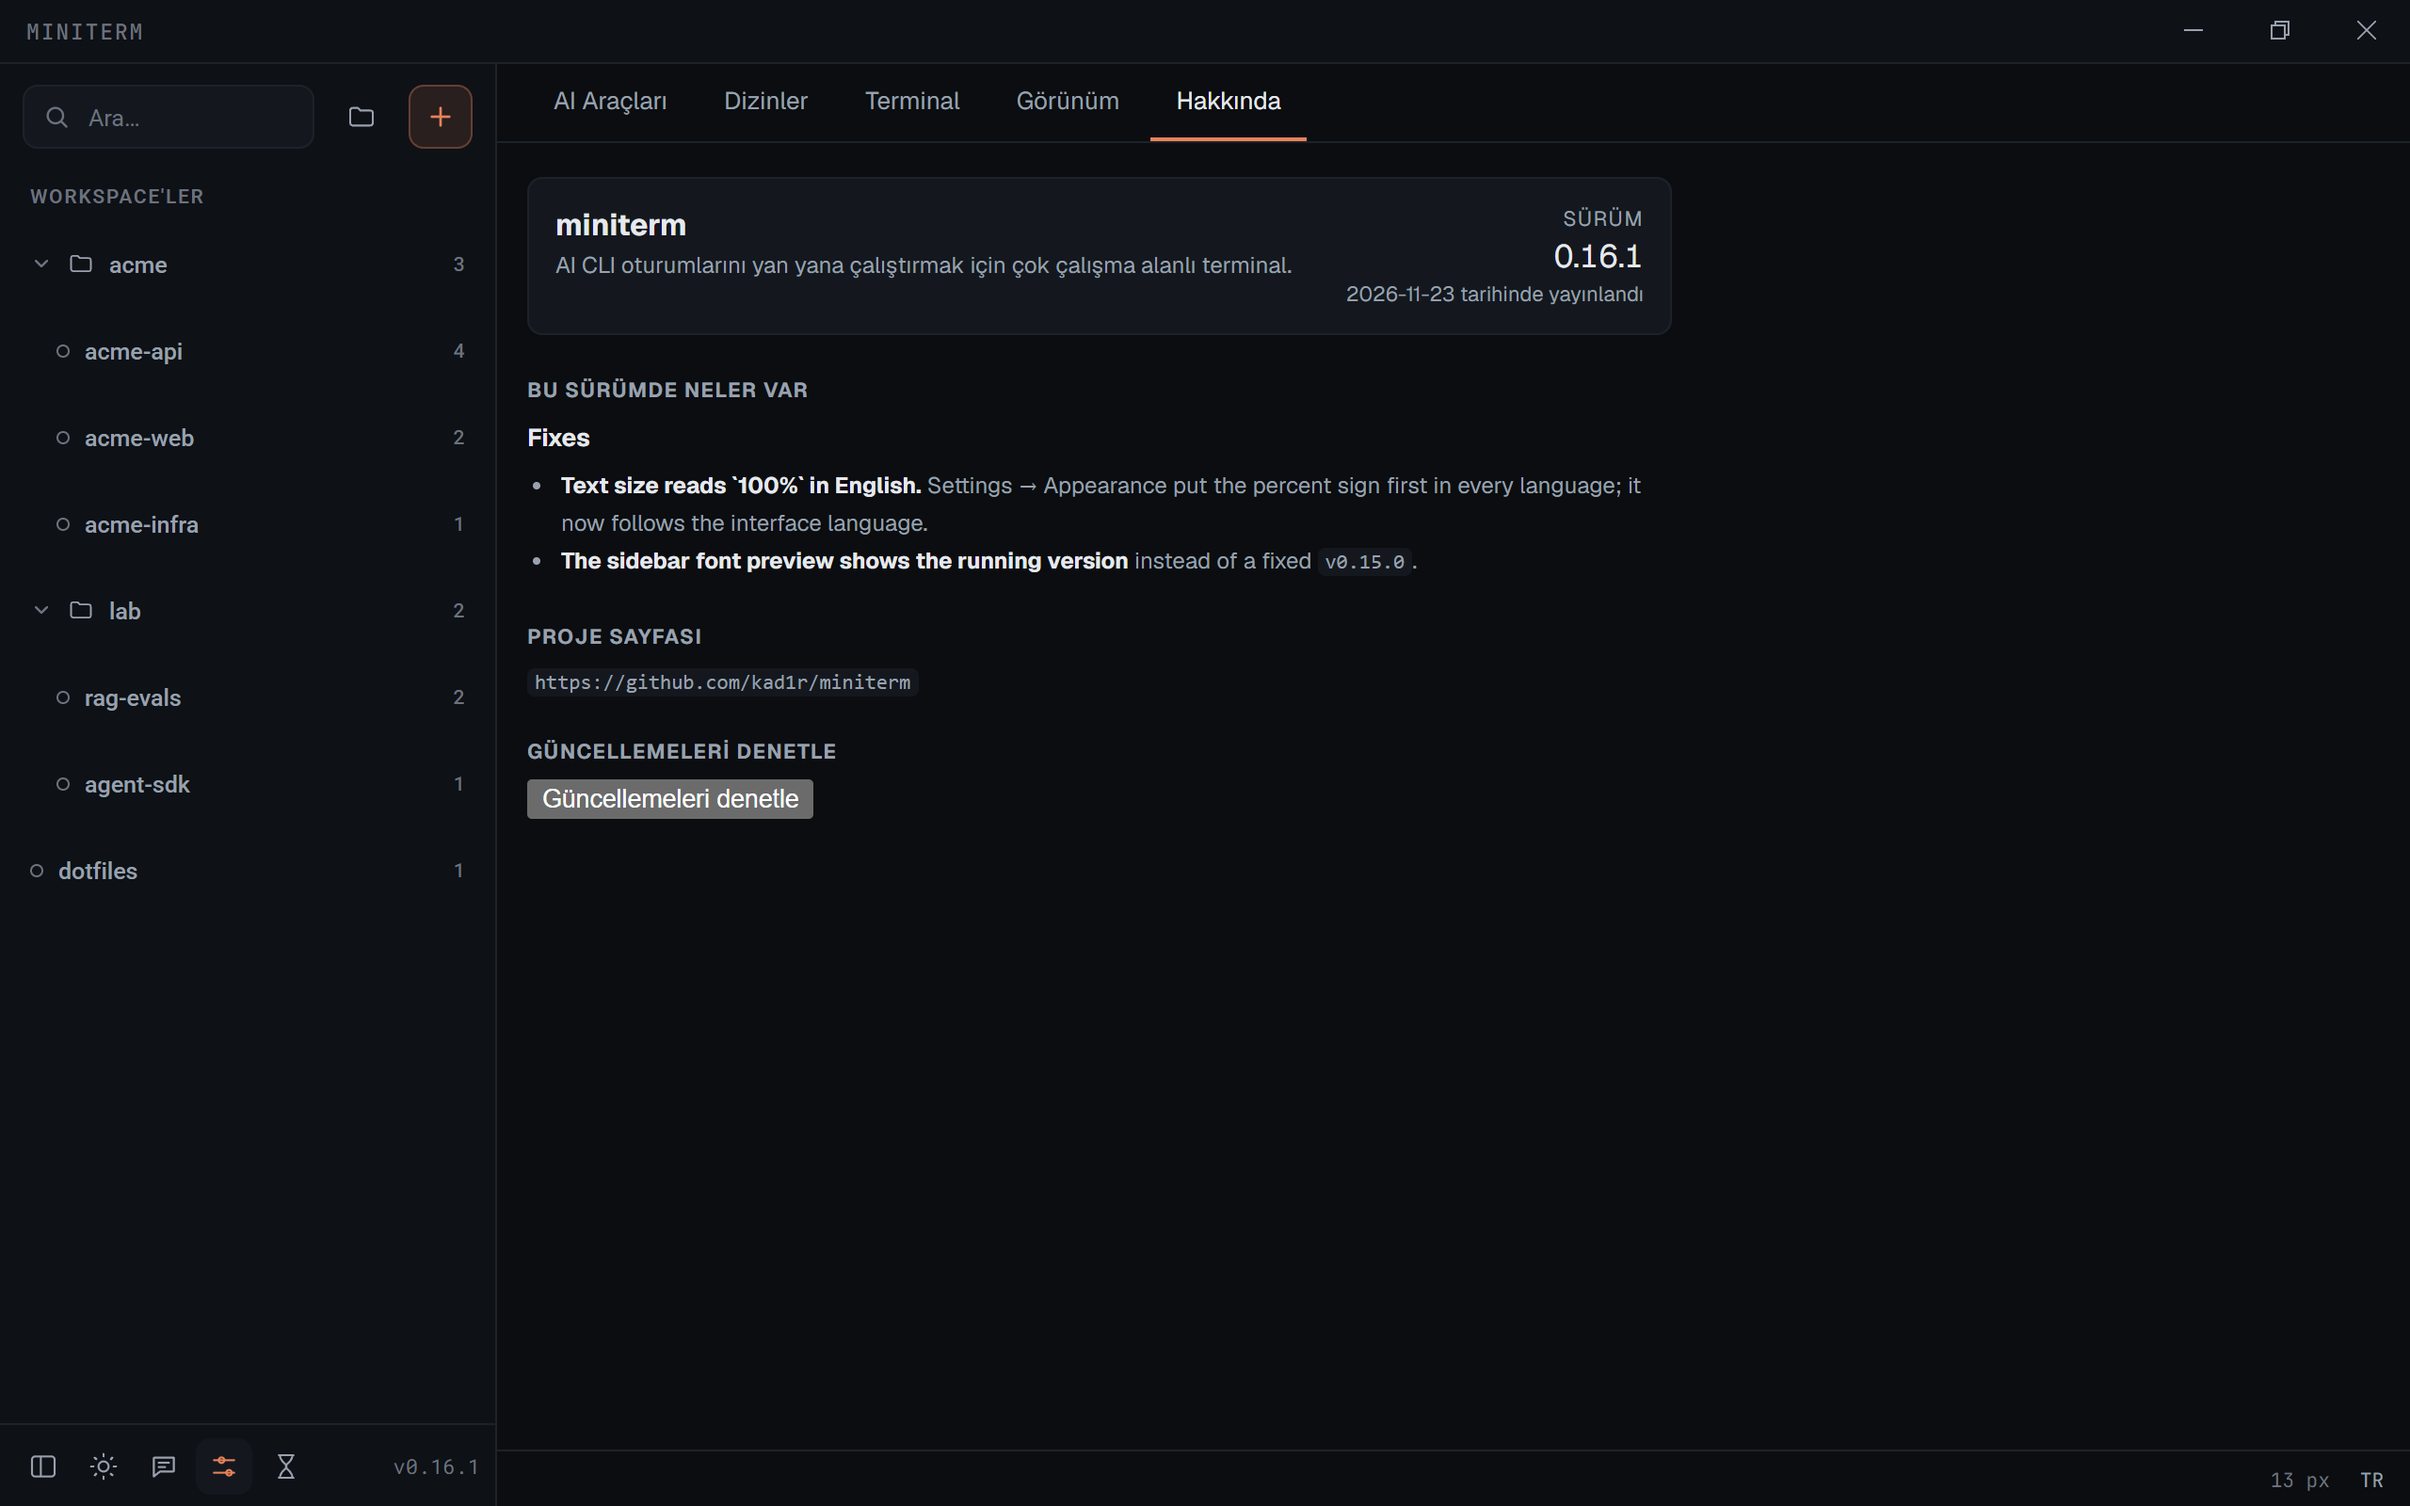
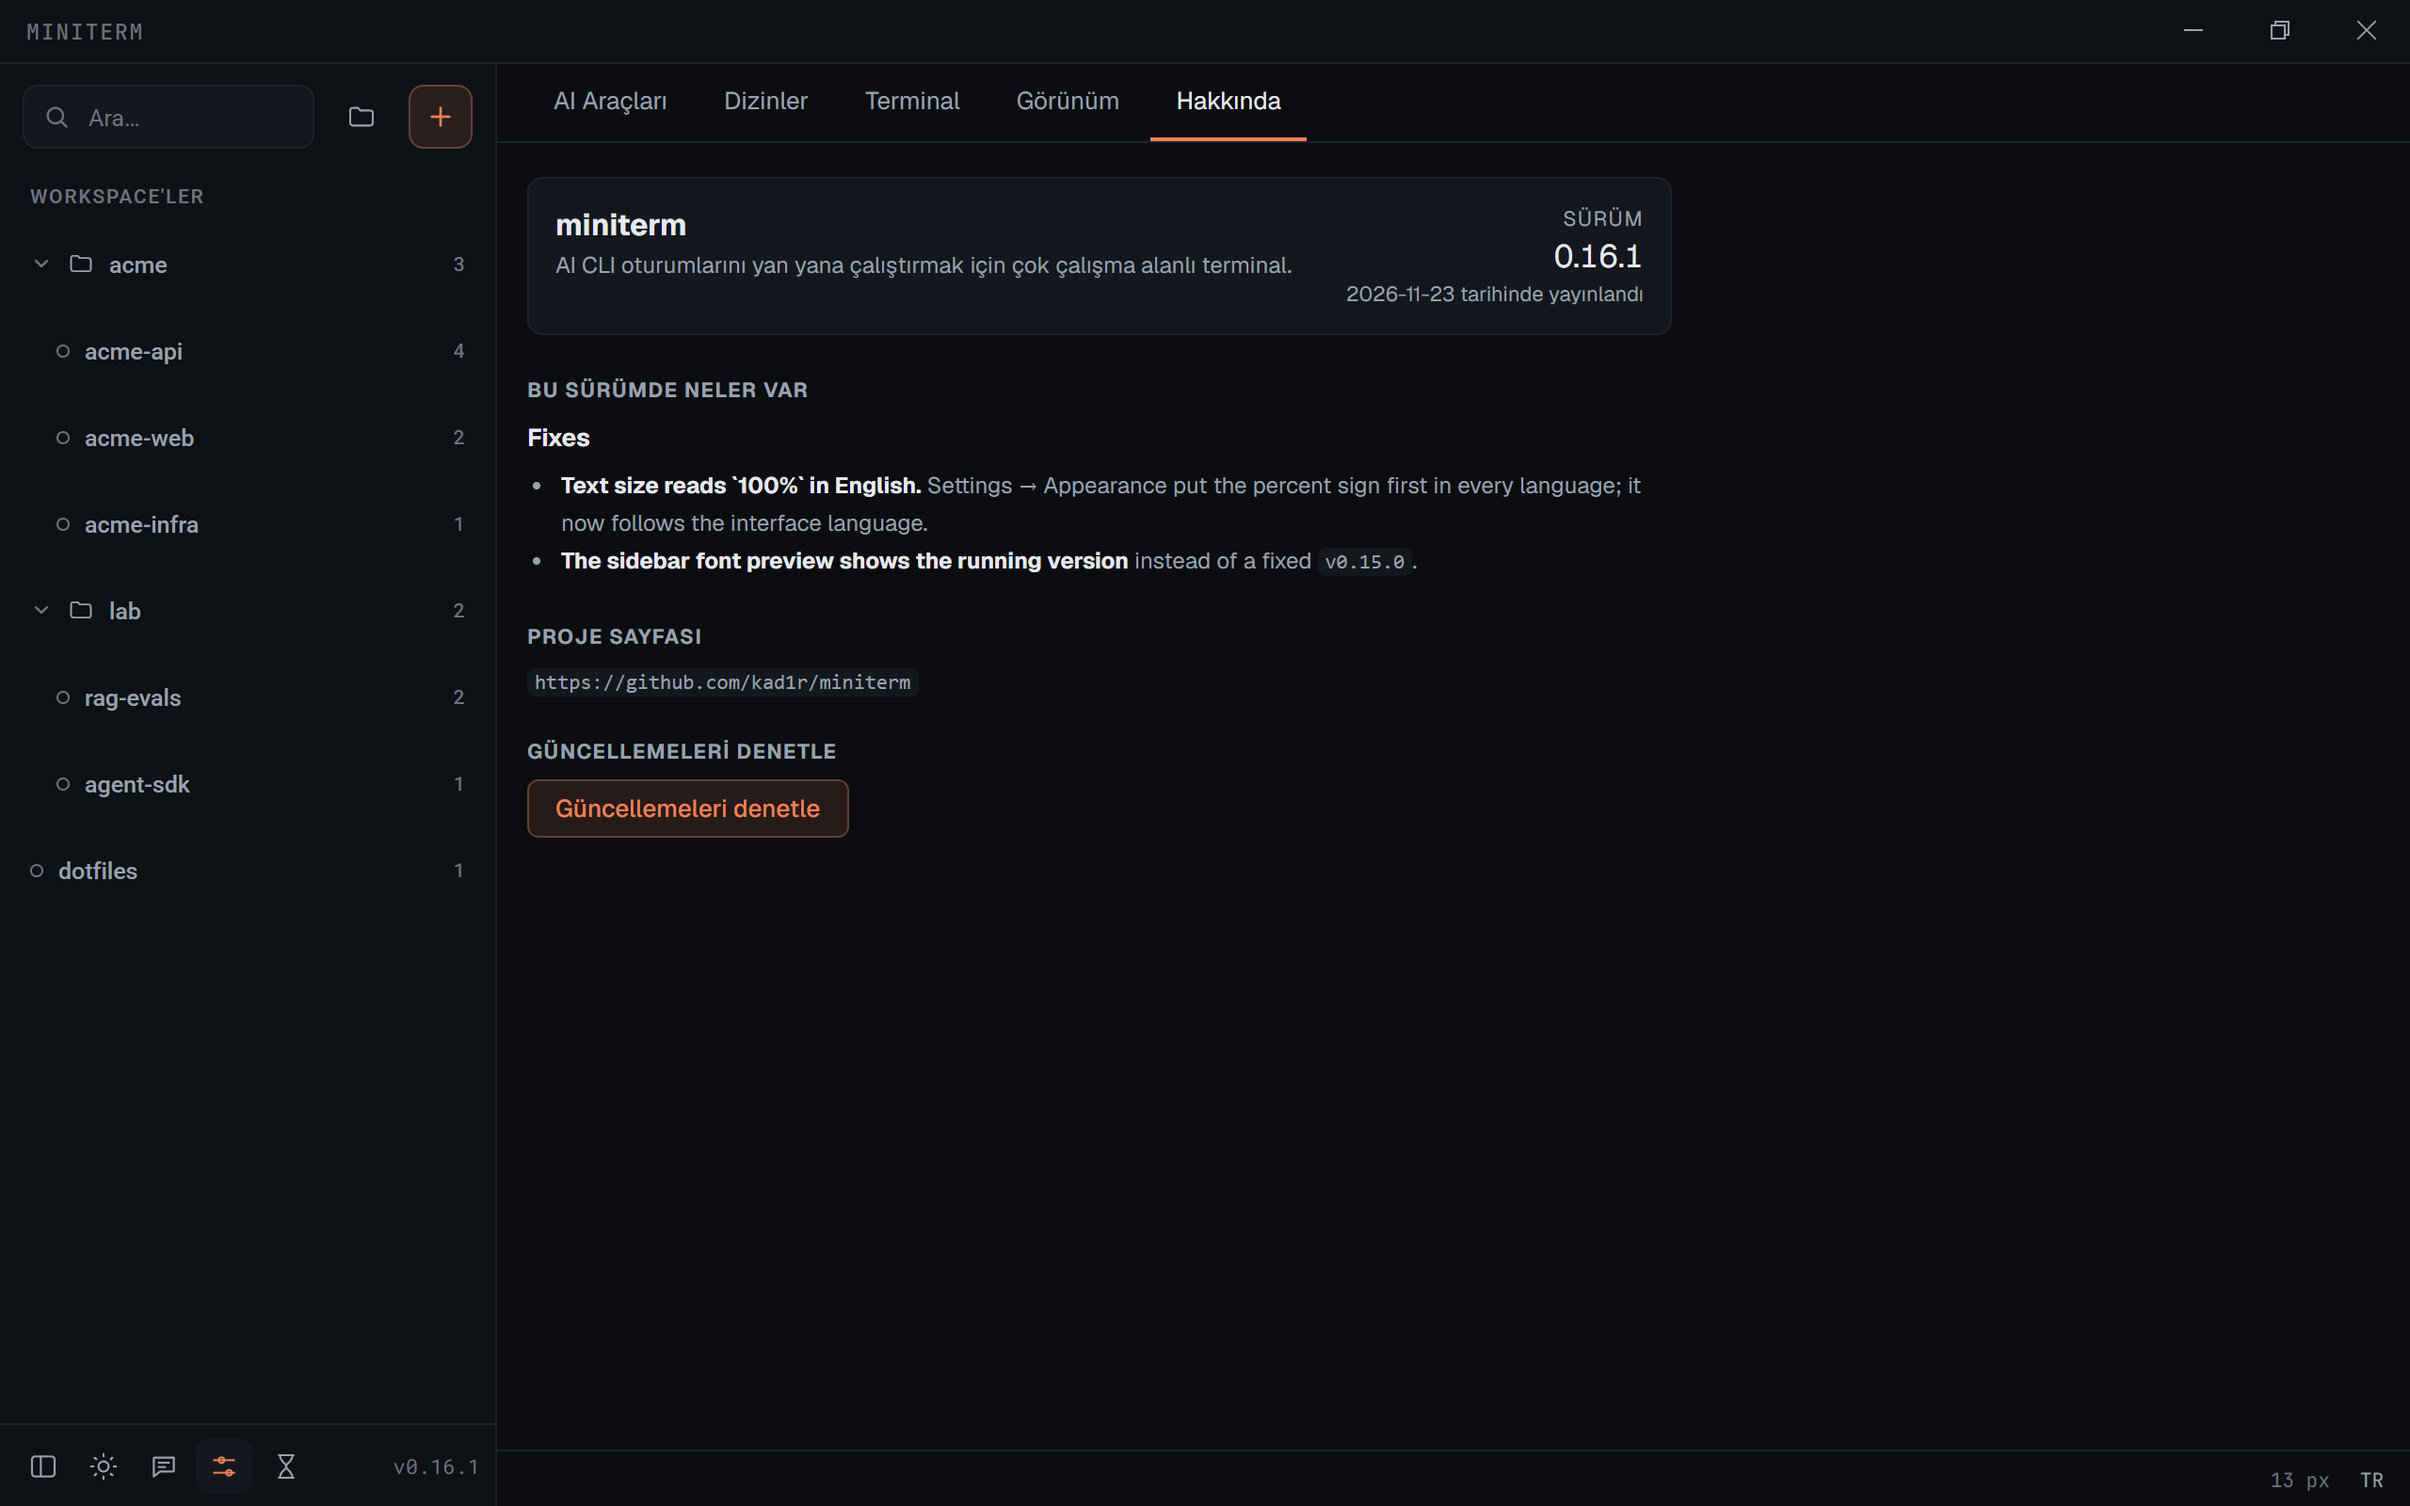
fix(settings): style the About tab update buttons with the accent tint
The check-for-updates and download buttons had no class and the About
tab carried no button rule, so they rendered as unstyled native buttons.

Changed region(s): [[0.2188, 0.5, 0.375, 0.5625]]

diff --git a/src/lib/SettingsAbout.svelte b/src/lib/SettingsAbout.svelte
@@ -71,6 +71,7 @@
 <h3>{t("update.checkButton")}</h3>
 <div class="update-check">
   <button
+    class="accent"
     onclick={checkForUpdates}
     disabled={update.status === "checking" || update.status === "downloading"}
   >
@@ -82,7 +83,7 @@
     <span class="hint err">{t("update.failed")}</span>
   {:else if update.status === "available"}
     <span class="hint">{t("update.bannerAvailable", { version: update.info?.latest ?? "" })}</span>
-    <button onclick={downloadAndInstall}>{t("update.download")}</button>
+    <button class="accent" onclick={downloadAndInstall}>{t("update.download")}</button>
   {:else if update.status === "downloading"}
     <span class="hint">{t("update.downloading", { percent: update.progress?.total ? Math.floor((update.progress.downloaded / update.progress.total) * 100) : 0 })}</span>
   {:else if update.status === "ready"}
@@ -134,6 +135,25 @@
   }
   .update-check .hint {
     margin: 0;
+  }
+  /* Same tinted accent as the sidebar's "new workspace" button. */
+  .accent {
+    padding: 6px 14px;
+    border: 1px solid color-mix(in srgb, var(--accent) 32%, transparent);
+    border-radius: 6px;
+    background: color-mix(in srgb, var(--accent) 12%, transparent);
+    color: var(--accent);
+    font: inherit;
+    font-size: calc(13px * var(--font-scale, 1));
+    font-weight: 500;
+    cursor: pointer;
+  }
+  .accent:hover:not(:disabled) {
+    background: color-mix(in srgb, var(--accent) 20%, transparent);
+  }
+  .accent:disabled {
+    opacity: 0.5;
+    cursor: default;
   }
   .update-check .hint.err {
     color: var(--err);
